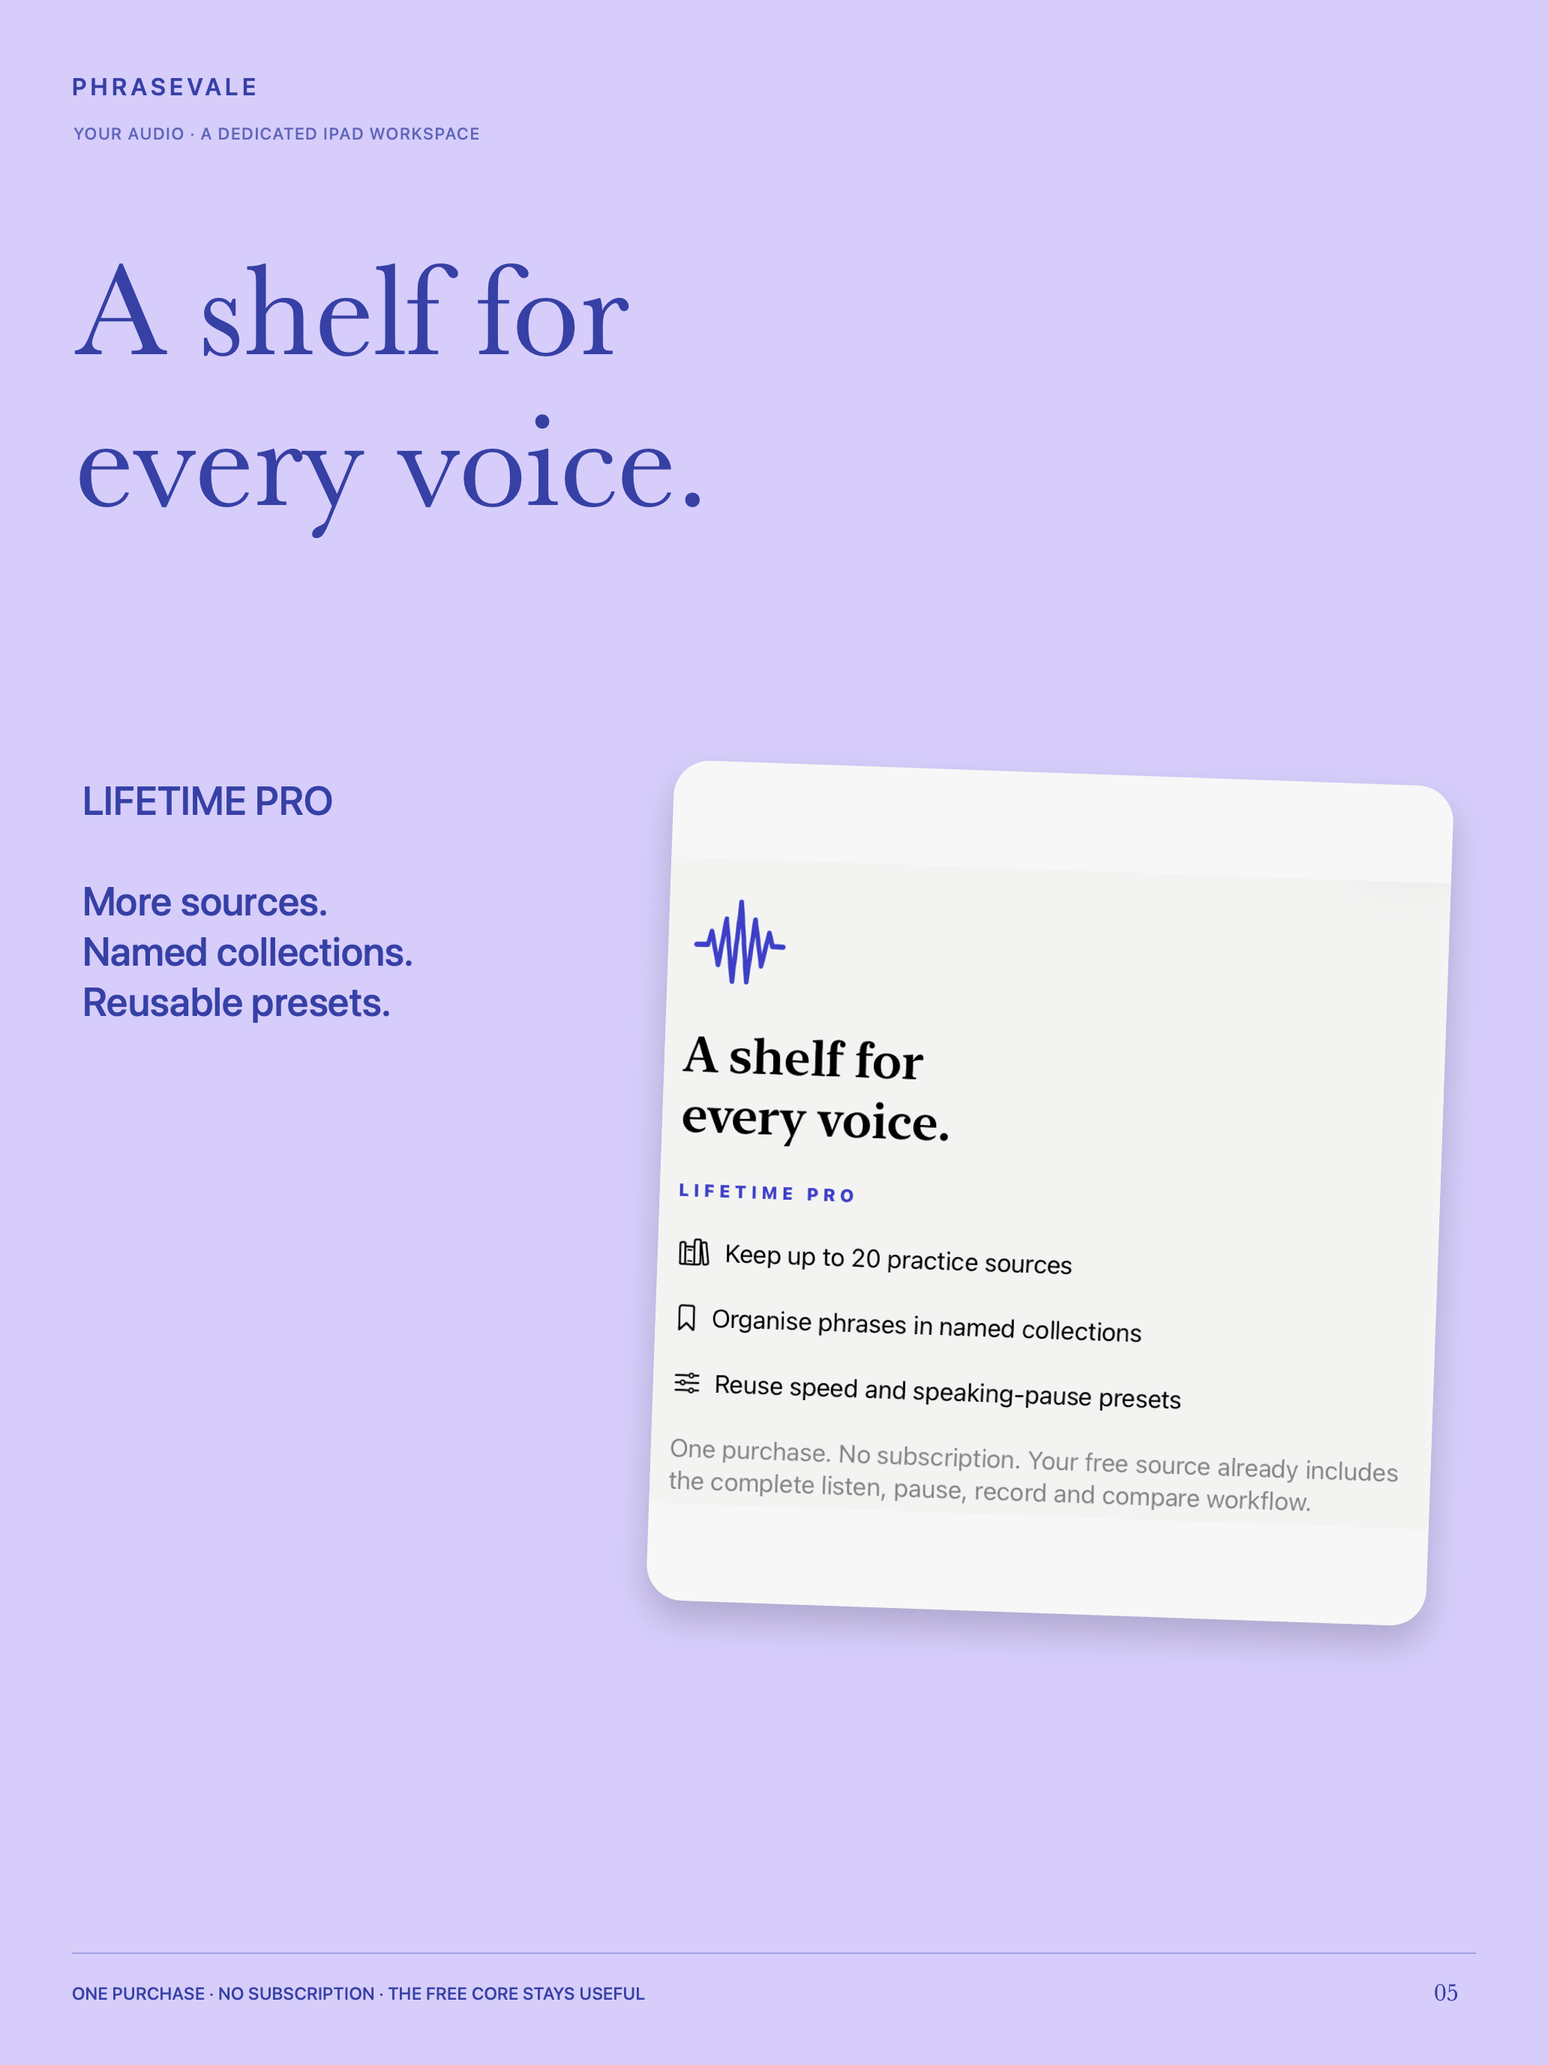
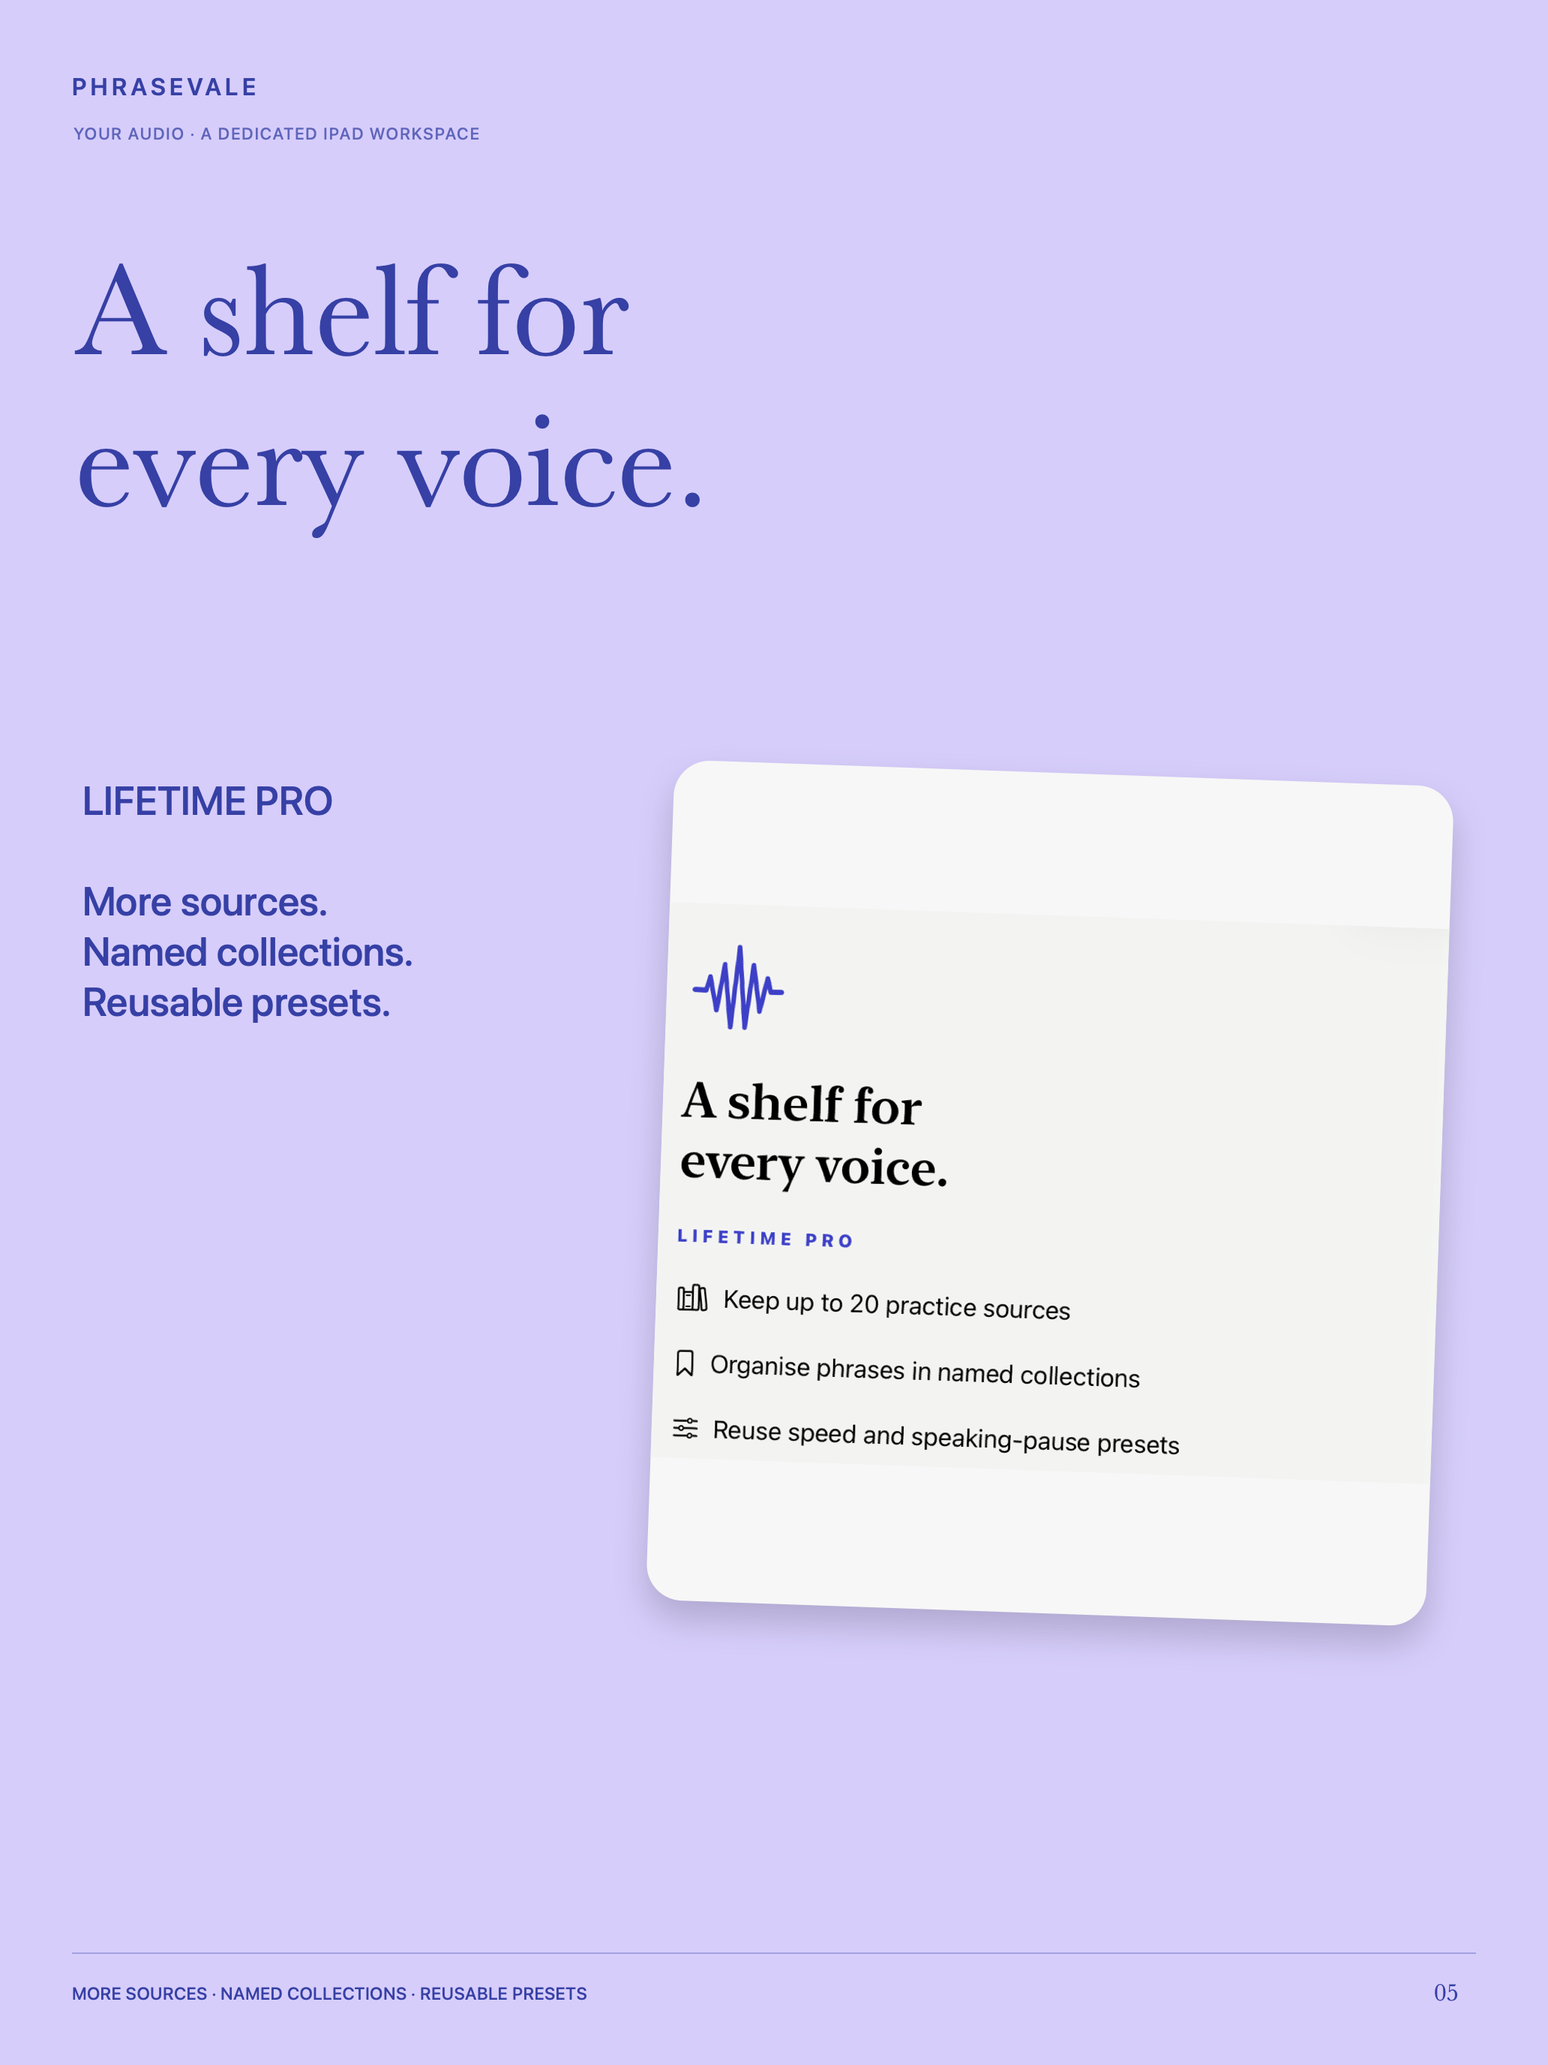
Record Phrasevale 4.3 resolution and screenshot metadata correction

diff --git a/index.html b/index.html
@@ -1,1 +1,1 @@
-<!doctype html><html lang="en"><head><meta charset="utf-8"><meta name="viewport" content="width=device-width,initial-scale=1"><title>Phrasevale — Personal audio practice</title><style>body{margin:0;background:#f7f6f0;color:#191c3d;font:18px/1.6 system-ui,sans-serif}header,main,footer{max-width:1280px;margin:auto;padding:40px 5vw}header{display:flex;justify-content:space-between;border-bottom:1px solid #ccc}a{color:#393fc7}h1{font:clamp(46px,7vw,100px)/1.04 Georgia,serif;max-width:1000px}h2{font:38px/1.2 Georgia,serif;margin-top:60px}.status{background:#e9e4fc;padding:18px;border-radius:16px}.lead{font-size:25px;max-width:900px}.features{display:grid;grid-template-columns:repeat(auto-fit,minmax(260px,1fr));gap:24px}.campaign{display:grid;grid-template-columns:repeat(auto-fit,minmax(220px,1fr));gap:20px}.campaign img{width:100%;height:auto;border-radius:14px}.tablet{grid-template-columns:repeat(auto-fit,minmax(300px,1fr))}.note{max-width:1000px}footer{border-top:1px solid #ccc}nav{display:flex;flex-wrap:wrap;gap:24px}</style></head><body><header><strong>PHRASEVALE</strong><a href="https://www.arvinify.com">Sepideh Javanbakht Dalir</a></header><main><p class="status">Recovery candidate1.0(2) is local and UNSUBMITTED. Last verified Apple build1.0(1): Rejected4.3(a), clarification sent. Not approved or released.</p><h1>Small phrases.<br>A personal practice plan.</h1><p class="lead">Your own audio, a focused listening-and-speaking session, and one detail to try again.</p><div class="features"><section><h2>Build a practice plan.</h2><p>Save phrases from your own audio. Work in source order or revisit phrases you have not marked comfortable.</p></section><section><h2>Hear, speak, compare.</h2><p>Adjust speed and pause, speak aloud, optionally record, then hear the original followed by your response.</p></section><section><h2>Keep your observations.</h2><p>Add a personal note, save your own assessment and resume your last phrase. No automatic scores or learning guarantees.</p></section></div><h2>The iPhone session</h2><div class="campaign"><a href="assets/session-iPhone-01.png"><img src="assets/session-iPhone-01.png" alt="Phrasevale iPhone session campaign 1" loading="lazy"></a><a href="assets/session-iPhone-02.png"><img src="assets/session-iPhone-02.png" alt="Phrasevale iPhone session campaign 2" loading="lazy"></a><a href="assets/session-iPhone-03.png"><img src="assets/session-iPhone-03.png" alt="Phrasevale iPhone session campaign 3" loading="lazy"></a><a href="assets/session-iPhone-04.png"><img src="assets/session-iPhone-04.png" alt="Phrasevale iPhone session campaign 4" loading="lazy"></a><a href="assets/session-iPhone-05.png"><img src="assets/session-iPhone-05.png" alt="Phrasevale iPhone session campaign 5" loading="lazy"></a><a href="assets/session-iPhone-06.png"><img src="assets/session-iPhone-06.png" alt="Phrasevale iPhone session campaign 6" loading="lazy"></a></div><h2>A dedicated iPad workspace</h2><div class="campaign tablet"><a href="assets/session-iPad-01.png"><img src="assets/session-iPad-01.png" alt="Phrasevale iPad session campaign 1" loading="lazy"></a><a href="assets/session-iPad-02.png"><img src="assets/session-iPad-02.png" alt="Phrasevale iPad session campaign 2" loading="lazy"></a><a href="assets/session-iPad-03.png"><img src="assets/session-iPad-03.png" alt="Phrasevale iPad session campaign 3" loading="lazy"></a><a href="assets/session-iPad-04.png"><img src="assets/session-iPad-04.png" alt="Phrasevale iPad session campaign 4" loading="lazy"></a><a href="assets/session-iPad-05.png"><img src="assets/session-iPad-05.png" alt="Phrasevale iPad session campaign 5" loading="lazy"></a><a href="assets/session-iPad-06.png"><img src="assets/session-iPad-06.png" alt="Phrasevale iPad session campaign 6" loading="lazy"></a></div><h2>Your audio stays yours.</h2><p class="note">Native SwiftUI, AVFoundation and StoreKit2. Exact source regions, paired responses, protected local progress and validated portable recovery. One source and all session tools are free; the same one-time Lifetime Pro adds source capacity, collections and presets. No account, transcription, automatic scoring or cloud processing.</p><h2>Evidence, without promises.</h2><p class="note">Native simulator journeys and storage/audio/local-purchase checks are recorded with scoped results and limits. Automated audits retain compact-phone contrast and iPad editor hit-target diagnostics; no whole-app accessibility pass is claimed. Current hardware, offline and spoken VoiceOver checks remain pending. Historical build1 hardware and Apple-validation evidence does not verify this new candidate. Genuine Sandbox remainder and TestFlight remain publisher-skipped, not passed. The new reviewer walkthrough and metadata are drafts. These changes do not establish Apple approval or that Guideline4.3(a) is resolved.</p><p class="note">The actual native UI shows illustrative personal practice with original-text demo audio rendered locally. No private speaker audio or lesson is published.</p></main><footer><nav><a href="support.html">Support</a><a href="privacy.html">Privacy</a><a href="https://github.com/sepidehdalir/phrasevale-showcase">GitHub case study</a><a href="mailto:hello@arvinify.com">hello@arvinify.com</a></nav><p>©2026 Sepideh Javanbakht Dalir</p></footer></body></html>
+<!doctype html><html lang="en"><head><meta charset="utf-8"><meta name="viewport" content="width=device-width,initial-scale=1"><title>Phrasevale — Personal audio practice</title><style>body{margin:0;background:#f7f6f0;color:#191c3d;font:18px/1.6 system-ui,sans-serif}header,main,footer{max-width:1280px;margin:auto;padding:40px 5vw}header{display:flex;justify-content:space-between;border-bottom:1px solid #ccc}a{color:#393fc7}h1{font:clamp(46px,7vw,100px)/1.04 Georgia,serif;max-width:1000px}h2{font:38px/1.2 Georgia,serif;margin-top:60px}.status{background:#e9e4fc;padding:18px;border-radius:16px}.lead{font-size:25px;max-width:900px}.features{display:grid;grid-template-columns:repeat(auto-fit,minmax(260px,1fr));gap:24px}.campaign{display:grid;grid-template-columns:repeat(auto-fit,minmax(220px,1fr));gap:20px}.campaign img{width:100%;height:auto;border-radius:14px}.tablet{grid-template-columns:repeat(auto-fit,minmax(300px,1fr))}.note{max-width:1000px}footer{border-top:1px solid #ccc}nav{display:flex;flex-wrap:wrap;gap:24px}</style></head><body><header><strong>PHRASEVALE</strong><a href="https://www.arvinify.com">Sepideh Javanbakht Dalir</a></header><main><p class="status">Apple resolved Guideline 4.3 for app 1.0 (1). Screenshot pricing references under 2.3.7 have been corrected and uploaded; asset processing and resubmission remain pending. Lifetime Pro is Ready for Review. Not approved or released. Verified November 5, 2026. Local candidate1.0(2) remains unsubmitted; the session features below describe that separate candidate.</p><h1>Small phrases.<br>A personal practice plan.</h1><p class="lead">Your own audio, a focused listening-and-speaking session, and one detail to try again.</p><div class="features"><section><h2>Build a practice plan.</h2><p>Save phrases from your own audio. Work in source order or revisit phrases you have not marked comfortable.</p></section><section><h2>Hear, speak, compare.</h2><p>Adjust speed and pause, speak aloud, optionally record, then hear the original followed by your response.</p></section><section><h2>Keep your observations.</h2><p>Add a personal note, save your own assessment and resume your last phrase. No automatic scores or learning guarantees.</p></section></div><h2>The iPhone session</h2><div class="campaign"><a href="assets/session-iPhone-01.png"><img src="assets/session-iPhone-01.png" alt="Phrasevale iPhone session campaign 1" loading="lazy"></a><a href="assets/session-iPhone-02.png"><img src="assets/session-iPhone-02.png" alt="Phrasevale iPhone session campaign 2" loading="lazy"></a><a href="assets/session-iPhone-03.png"><img src="assets/session-iPhone-03.png" alt="Phrasevale iPhone session campaign 3" loading="lazy"></a><a href="assets/session-iPhone-04.png"><img src="assets/session-iPhone-04.png" alt="Phrasevale iPhone session campaign 4" loading="lazy"></a><a href="assets/session-iPhone-05.png"><img src="assets/session-iPhone-05.png" alt="Phrasevale iPhone session campaign 5" loading="lazy"></a><a href="assets/session-iPhone-06.png"><img src="assets/session-iPhone-06.png" alt="Phrasevale iPhone session campaign 6" loading="lazy"></a></div><h2>A dedicated iPad workspace</h2><div class="campaign tablet"><a href="assets/session-iPad-01.png"><img src="assets/session-iPad-01.png" alt="Phrasevale iPad session campaign 1" loading="lazy"></a><a href="assets/session-iPad-02.png"><img src="assets/session-iPad-02.png" alt="Phrasevale iPad session campaign 2" loading="lazy"></a><a href="assets/session-iPad-03.png"><img src="assets/session-iPad-03.png" alt="Phrasevale iPad session campaign 3" loading="lazy"></a><a href="assets/session-iPad-04.png"><img src="assets/session-iPad-04.png" alt="Phrasevale iPad session campaign 4" loading="lazy"></a><a href="assets/session-iPad-05.png"><img src="assets/session-iPad-05.png" alt="Phrasevale iPad session campaign 5" loading="lazy"></a><a href="assets/session-iPad-06.png"><img src="assets/session-iPad-06.png" alt="Phrasevale iPad session campaign 6" loading="lazy"></a></div><h2>Your audio stays yours.</h2><p class="note">Native SwiftUI, AVFoundation and StoreKit2. Exact source regions, paired responses, protected local progress and validated portable recovery. One source and all session tools are free; the same one-time Lifetime Pro adds source capacity, collections and presets. No account, transcription, automatic scoring or cloud processing.</p><h2>Evidence, without promises.</h2><p class="note">Native simulator journeys and storage/audio/local-purchase checks are recorded with scoped results and limits. Automated audits retain compact-phone contrast and iPad editor hit-target diagnostics; no whole-app accessibility pass is claimed. Current hardware, offline and spoken VoiceOver checks remain pending. Historical build1 hardware and Apple-validation evidence does not verify this new candidate. Genuine Sandbox remainder and TestFlight remain publisher-skipped, not passed. The new reviewer walkthrough and metadata are drafts. These local candidate2 changes do not establish Apple approval or submission. Apple explicitly resolved4.3 for submitted build1; the corrected build1 metadata is awaiting asset processing and resubmission.</p><p class="note">The actual native UI shows illustrative personal practice with original-text demo audio rendered locally. No private speaker audio or lesson is published.</p></main><footer><nav><a href="support.html">Support</a><a href="privacy.html">Privacy</a><a href="https://github.com/sepidehdalir/phrasevale-showcase">GitHub case study</a><a href="mailto:hello@arvinify.com">hello@arvinify.com</a></nav><p>©2026 Sepideh Javanbakht Dalir</p></footer></body></html>

diff --git a/README.md b/README.md
@@ -1,6 +1,8 @@
 # Phrasevale — Audio Shadowing
 
-**Local recovery candidate1.0(2), UNSUBMITTED.** The last verified Apple version1.0(1) was rejected under Guideline4.3(a); a clarification was sent. Lifetime Pro was Ready for Review. The current candidate has not been uploaded, resubmitted, approved or released. Apple authentication and remaining production checks are pending.
+**Apple resolved Guideline 4.3 for app 1.0 (1). Screenshot pricing references under 2.3.7 have been corrected and uploaded; asset processing and resubmission remain pending. Lifetime Pro is Ready for Review. Not approved or released. Verified November 5, 2026.**
+
+Local candidate 1.0 (2) remains UNSUBMITTED and separate from the metadata-only correction to build 1. The session workflow below describes that local candidate.
 
 Built by **Sepideh Javanbakht Dalir** · [arvinify.com](https://www.arvinify.com) · [hello@arvinify.com](mailto:hello@arvinify.com)
 
@@ -10,7 +12,7 @@ Bring audio you own, save short source-relative phrases, and work through a focu
 
 The assessments belong to the learner. There is no automatic speech scoring, transcription, licensed lesson library, actor-role reader or cloud service. All session tools are free within one source. The existing one-time Lifetime Pro expands the source library, named collections and saved presets. Existing audio, purchases and portable backups remain supported.
 
-## Current native campaign
+## Local candidate 1.0 (2) native campaign
 
 <img src="assets/session-iPhone-01.png" alt="Phrasevale iPhone session campaign 1" width="260"> <img src="assets/session-iPhone-02.png" alt="Phrasevale iPhone session campaign 2" width="260"> <img src="assets/session-iPhone-03.png" alt="Phrasevale iPhone session campaign 3" width="260"> <img src="assets/session-iPhone-04.png" alt="Phrasevale iPhone session campaign 4" width="260"> <img src="assets/session-iPhone-05.png" alt="Phrasevale iPhone session campaign 5" width="260"> <img src="assets/session-iPhone-06.png" alt="Phrasevale iPhone session campaign 6" width="260">
 
@@ -24,6 +26,12 @@ SwiftUI, AVFoundation/AVAudioSession, StoreKit2 and protected local files. Saved
 
 Scoped iOS17 and26.5 native checks cover storage/recovery, audio completion/cancellation, learner session journeys and local StoreKit behavior. Final dated outcomes and remaining checks are maintained in the private production evidence. These checks overlap and are not a claim of exhaustive coverage or genuine Sandbox purchase success. Automated audits retain a compact-phone contrast diagnostic and an iPad editor hit-target finding; no unfiltered whole-app accessibility pass is claimed. Current physical microphone/routes/offline and spoken VoiceOver checks remain unverified; historical build1 hardware proof is not candidate2 proof. Actual iOS15 runtime is unavailable. TestFlight and remaining genuine Sandbox are publisher-SKIPPED, never passed.
 
-The rejected build1's original Apple validation is historical. Local packaging of candidate2 does not establish Apple server validation, upload or resubmission. These product changes do not prove market originality or resolution of4.3(a). Metadata and reviewer walkthrough remain drafts until the candidate is genuinely ready.
+The rejected build1's original Apple validation is historical. Local packaging of candidate2 does not establish Apple server validation, upload or resubmission. Apple explicitly resolved 4.3 for submitted build1 following the October19 clarification; that resolution does not validate or submit local candidate2. Metadata and reviewer walkthrough remain drafts until the candidate is genuinely ready.
 
 [Product case study](https://sepidehdalir.github.io/phrasevale-showcase/) · [iOS portfolio](https://github.com/sepidehdalir/ios-app-portfolio)
+
+## Submitted build 1 screenshot correction
+
+The original source-region and paired-response workflow is retained in build 1. Only screenshot pricing references and promotional copy were changed for 2.3.7.
+
+<img src="assets/iPhone-01.png" alt="Build 1 corrected iPhone campaign" width="260"> <img src="assets/iPad-01.png" alt="Build 1 corrected iPad campaign" width="340">
